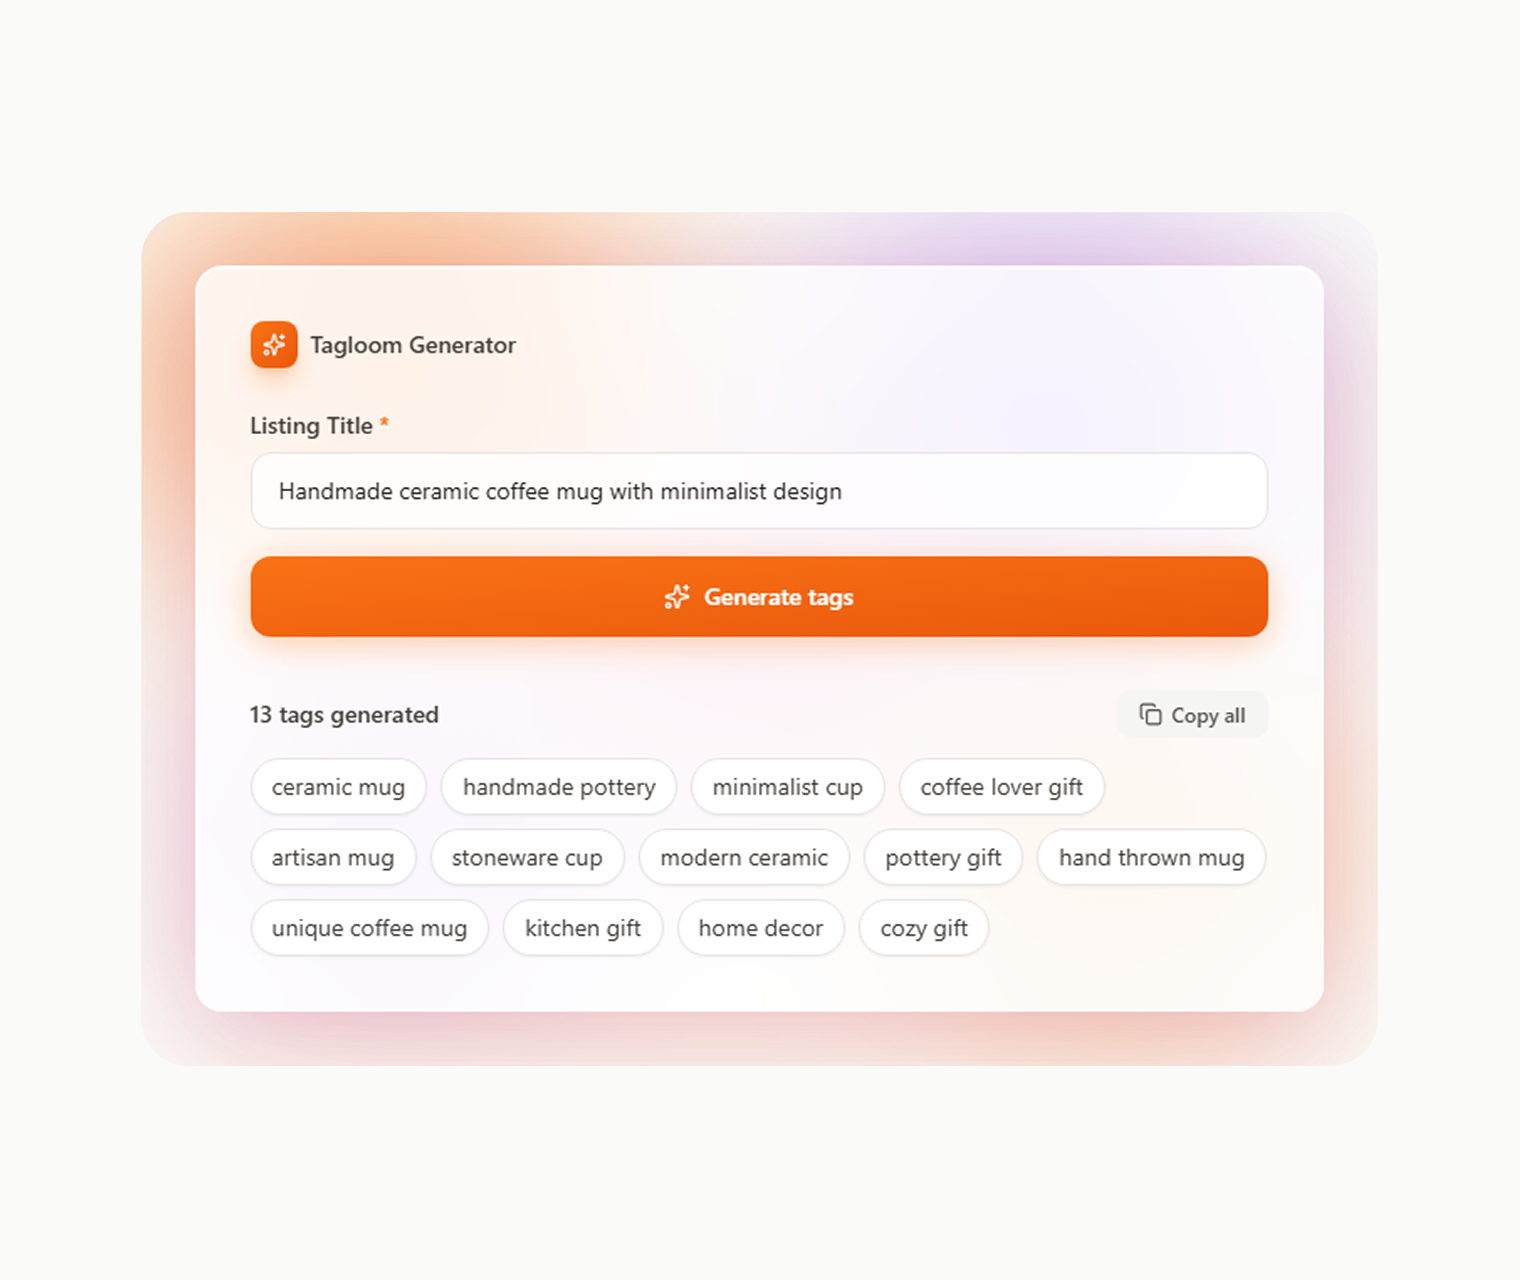
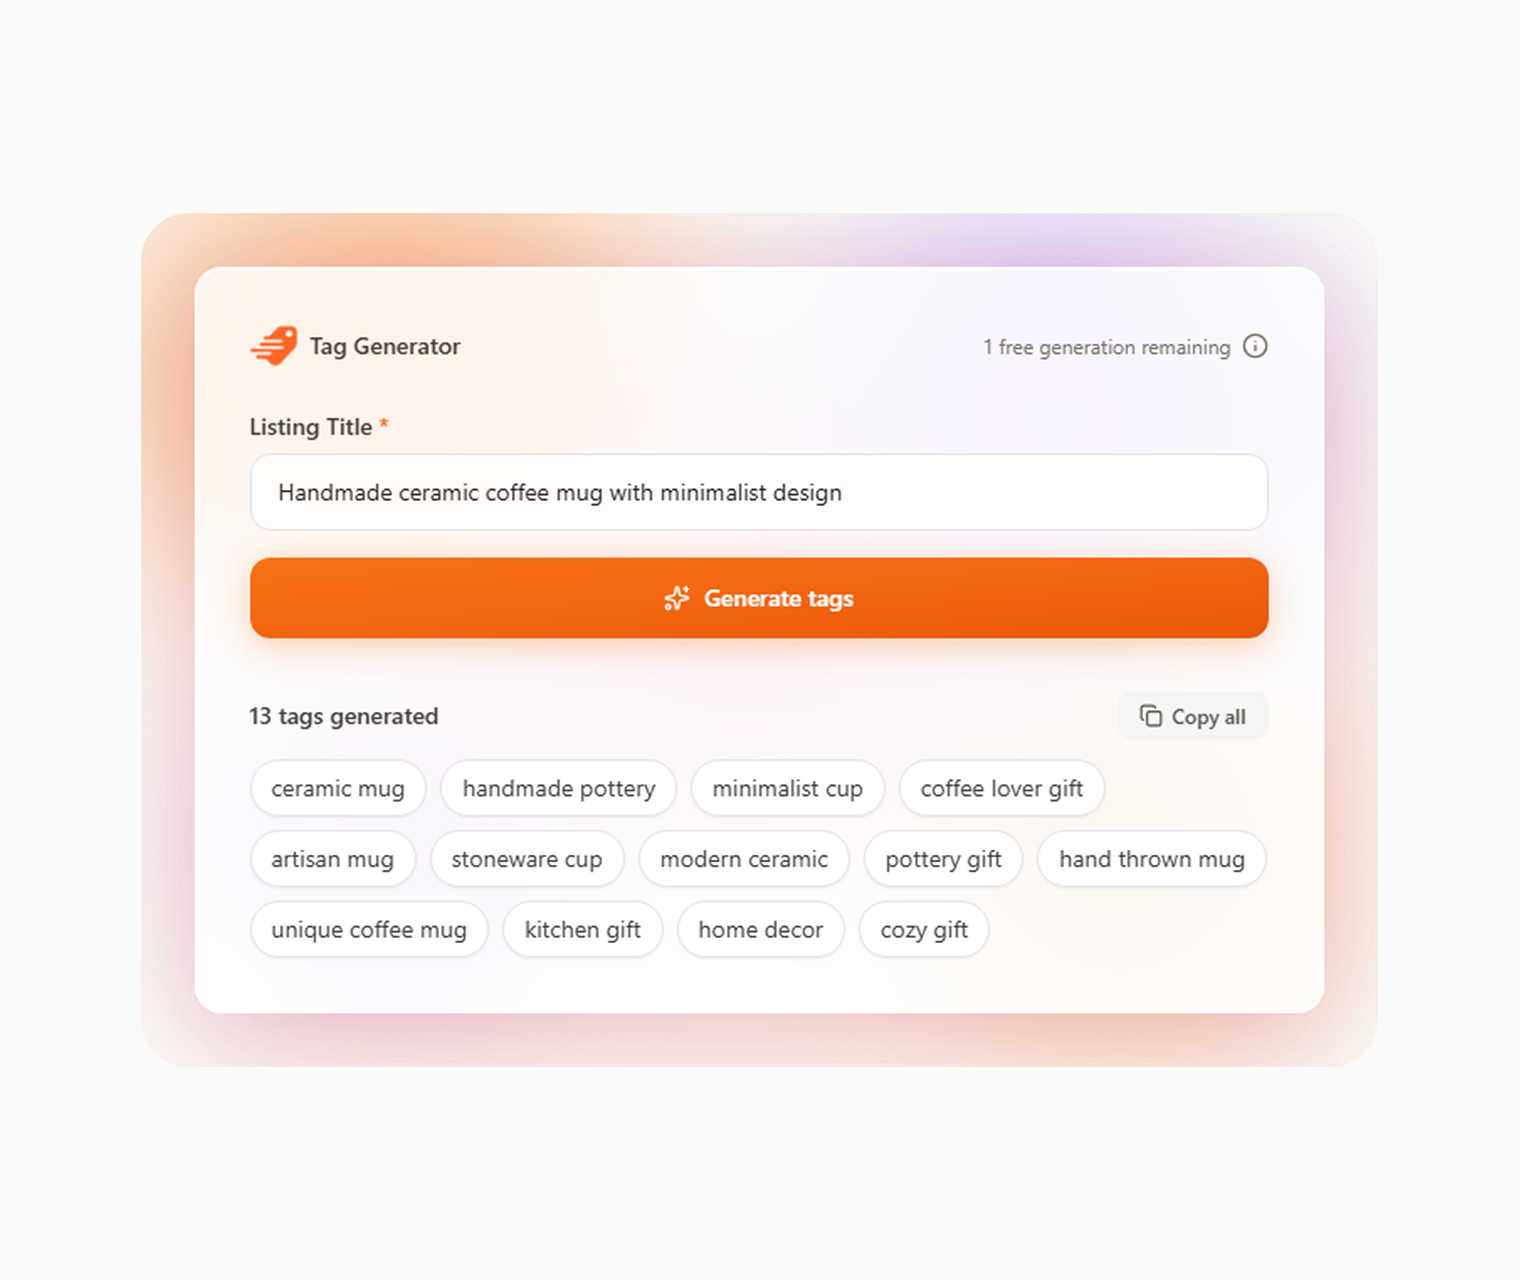
fix: prepare public release

diff --git a/src/content/projects.ts b/src/content/projects.ts
@@ -241,7 +241,7 @@ export const PROJECTS_BY_NAME: Record<ProjectName, ProjectMetadata> = {
     ],
     caseStudyAction: {
       label: "View Extension",
-      href: "https://www.google.com/",
+      href: "https://marketplace.visualstudio.com/items?itemName=ace-lowder.on-track",
     },
     caseStudyTechnologies: [
       { name: "VS Code" },
